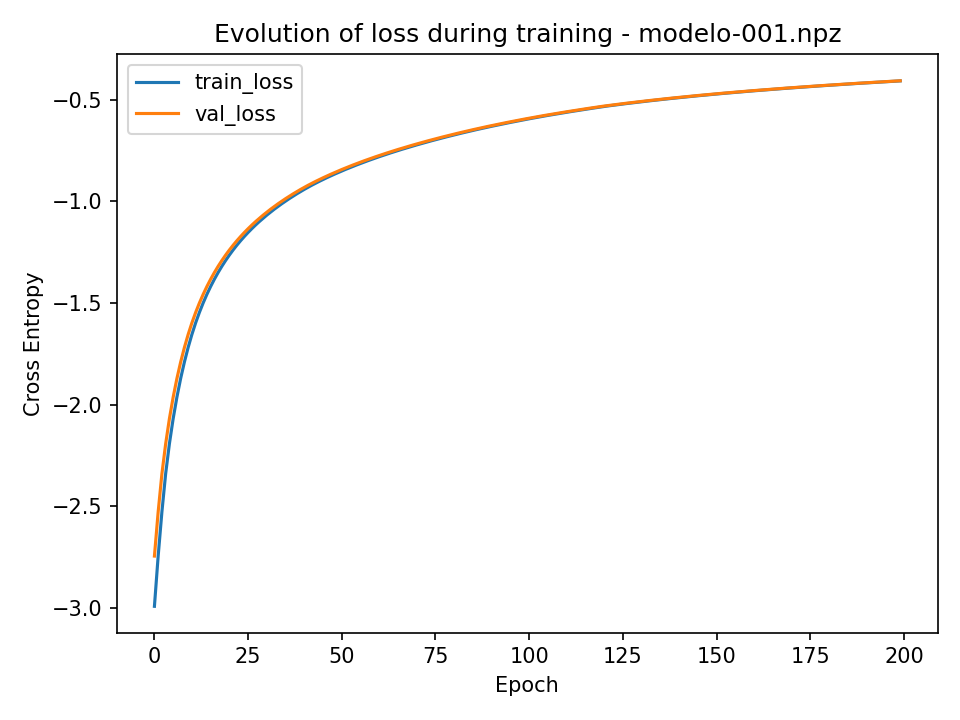
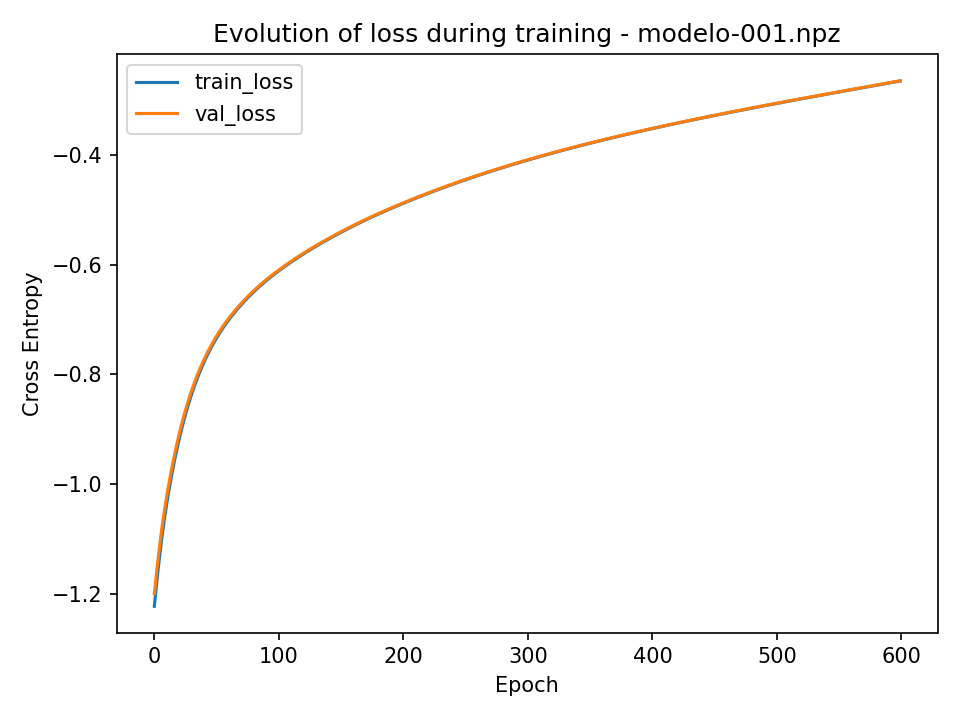
fix

diff --git a/Actividades/Actividad6/Actividad2_practica3.py b/Actividades/Actividad6/Actividad2_practica3.py
@@ -472,9 +472,10 @@ def main():
     
     # 9. Experimentos guiados para encontrar buenos hiperparámetros
     experiments = [
-        {"n_hidden": 4, "lr":0.01, "epochs": 300, "seed": np.random.randint(1000)},
-        {"n_hidden": 8, "lr":0.03,"epochs": 200, "seed": np.random.randint(1000)},
-        {"n_hidden": 12, "lr":0.05,"epochs": 100, "seed": np.random.randint(1000)},
+        {"n_hidden": 8, "lr":0.003, "epochs": 600, "seed": np.random.randint(1000)},
+        {"n_hidden": 8, "lr":0.03, "epochs": 600, "seed": np.random.randint(1000)},
+        {"n_hidden": 8, "lr":0.3, "epochs": 600, "seed": np.random.randint(1000)},
+        {"n_hidden": 16, "lr":0.03, "epochs": 600, "seed": np.random.randint(1000)},
     ]
     results = []
     print("\n --- Experimentos guiados")
